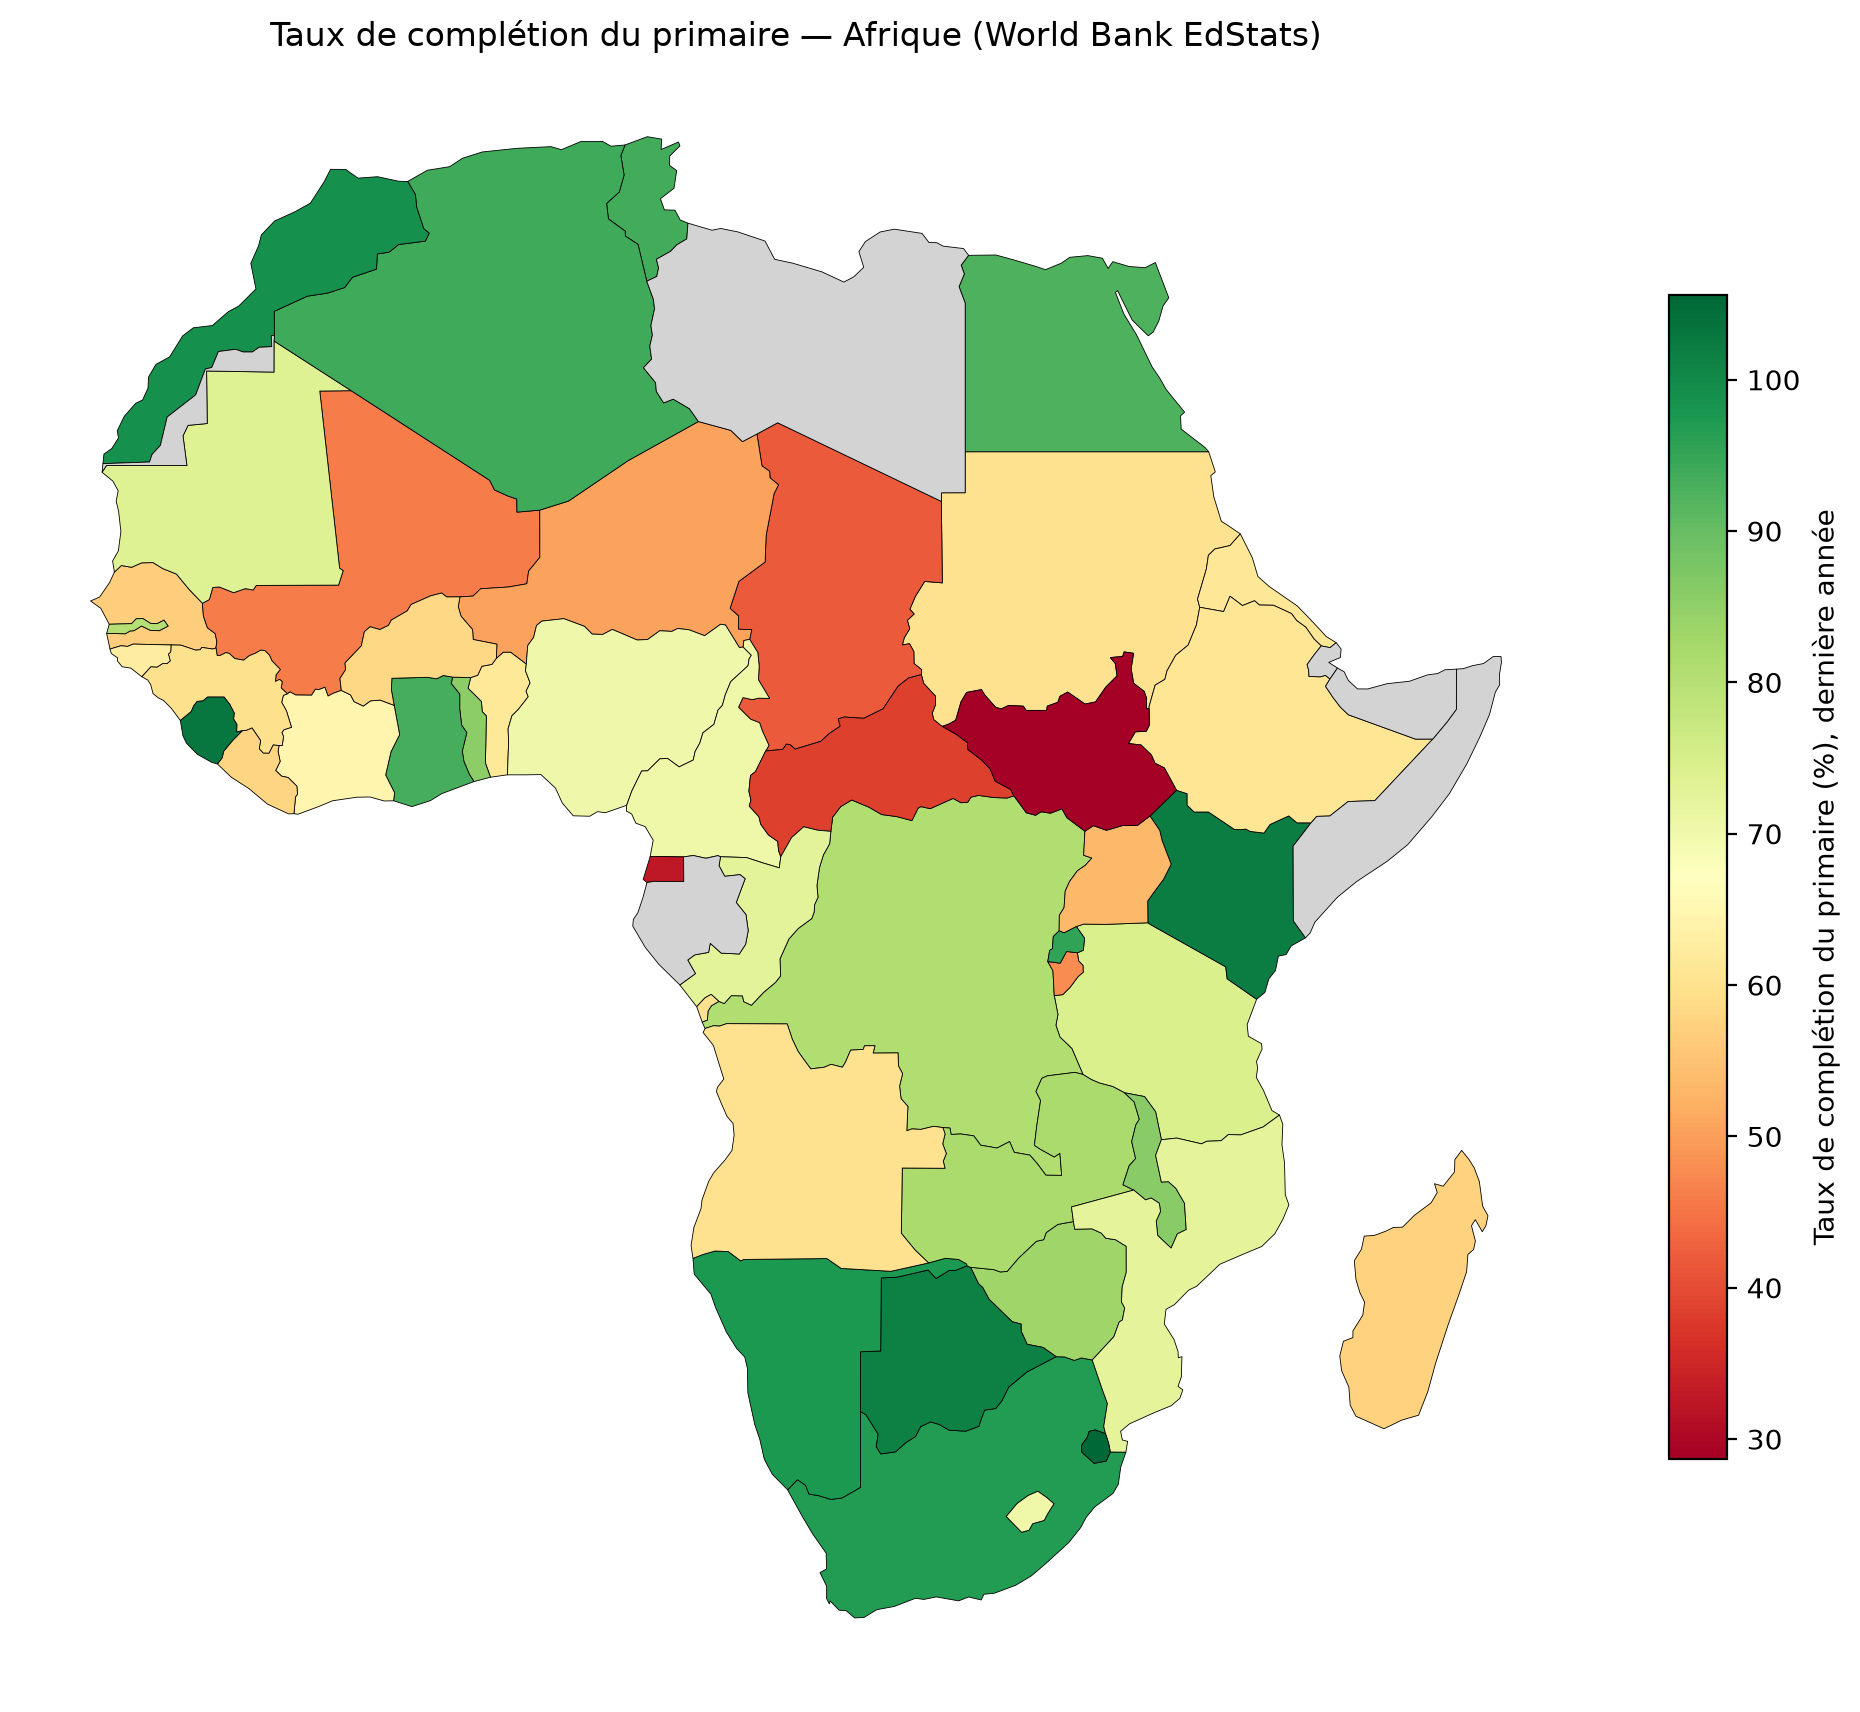
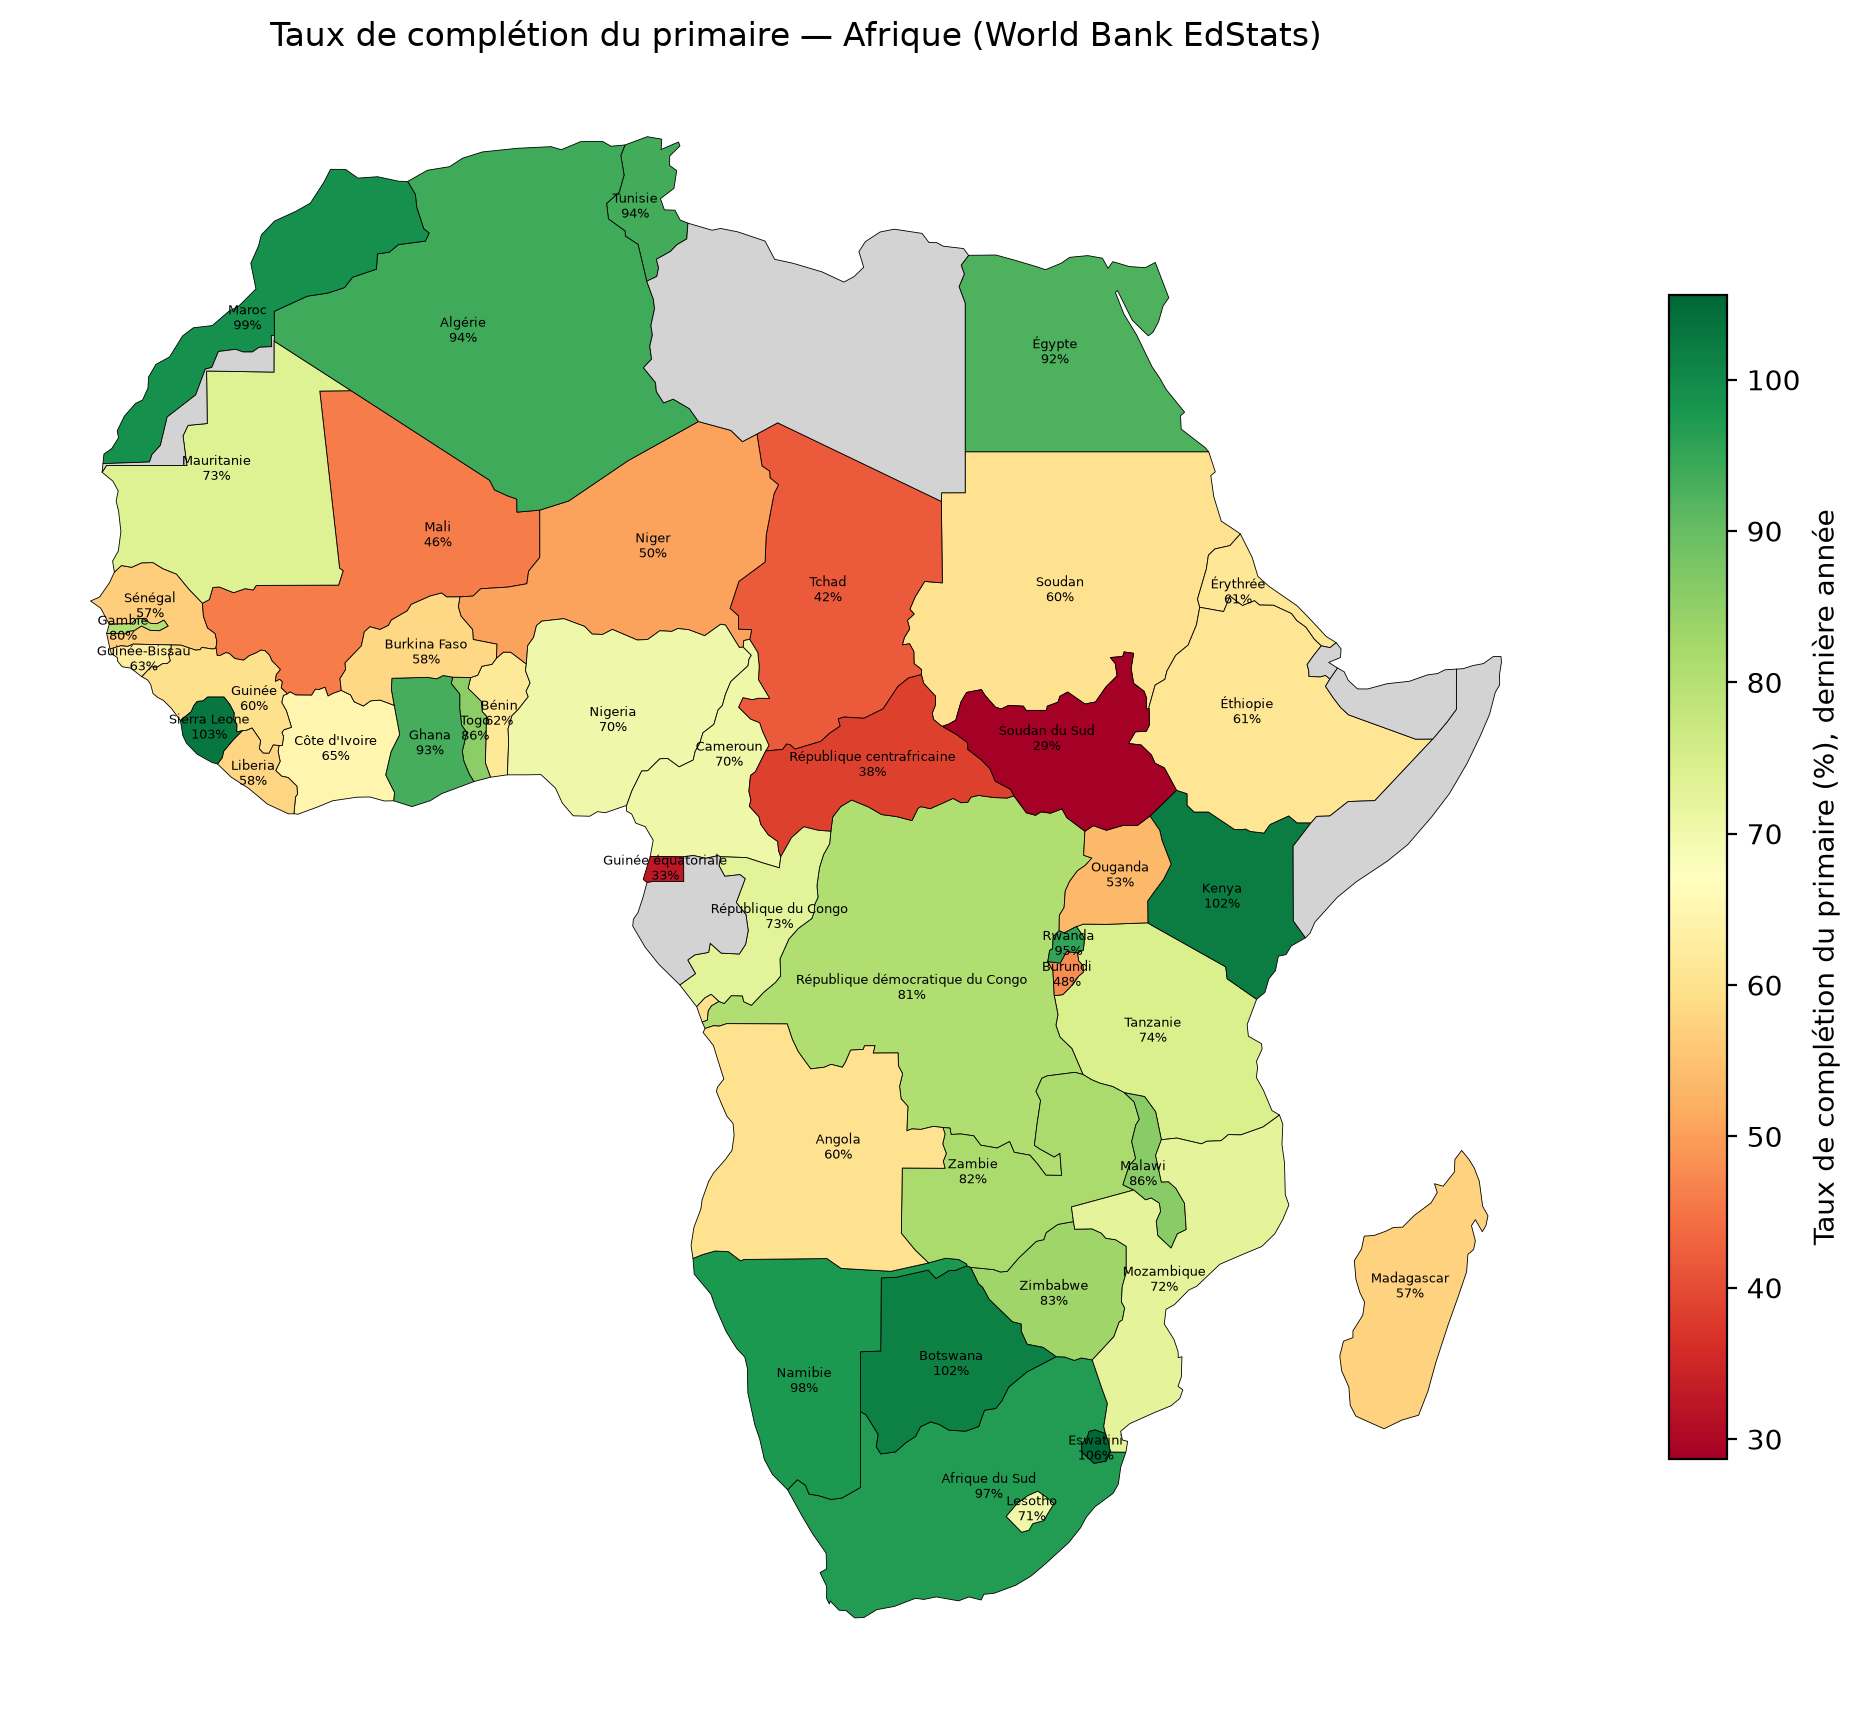
Ajoute noms de pays sur la carte completion primaire

diff --git a/src/05_mapping.py b/src/05_mapping.py
@@ -35,6 +35,11 @@ def run():
         merged.plot(column="primary_completion", cmap="RdYlGn", legend=True, ax=ax,
                     edgecolor="black", linewidth=0.3, missing_kwds={"color": "lightgrey"},
                     legend_kwds={"label": "Taux de complétion du primaire (%), dernière année", "shrink": 0.6})
+        for _, row in merged.iterrows():
+            if pd.notna(row.get("primary_completion")):
+                c = row.geometry.representative_point()
+                ax.annotate(f"{row['NAME_FR']}\n{row['primary_completion']:.0f}%", (c.x, c.y),
+                            fontsize=4.5, ha="center", va="center", color="black")
         ax.set_title("Taux de complétion du primaire — Afrique (World Bank EdStats)")
         ax.axis("off")
         plt.tight_layout()
